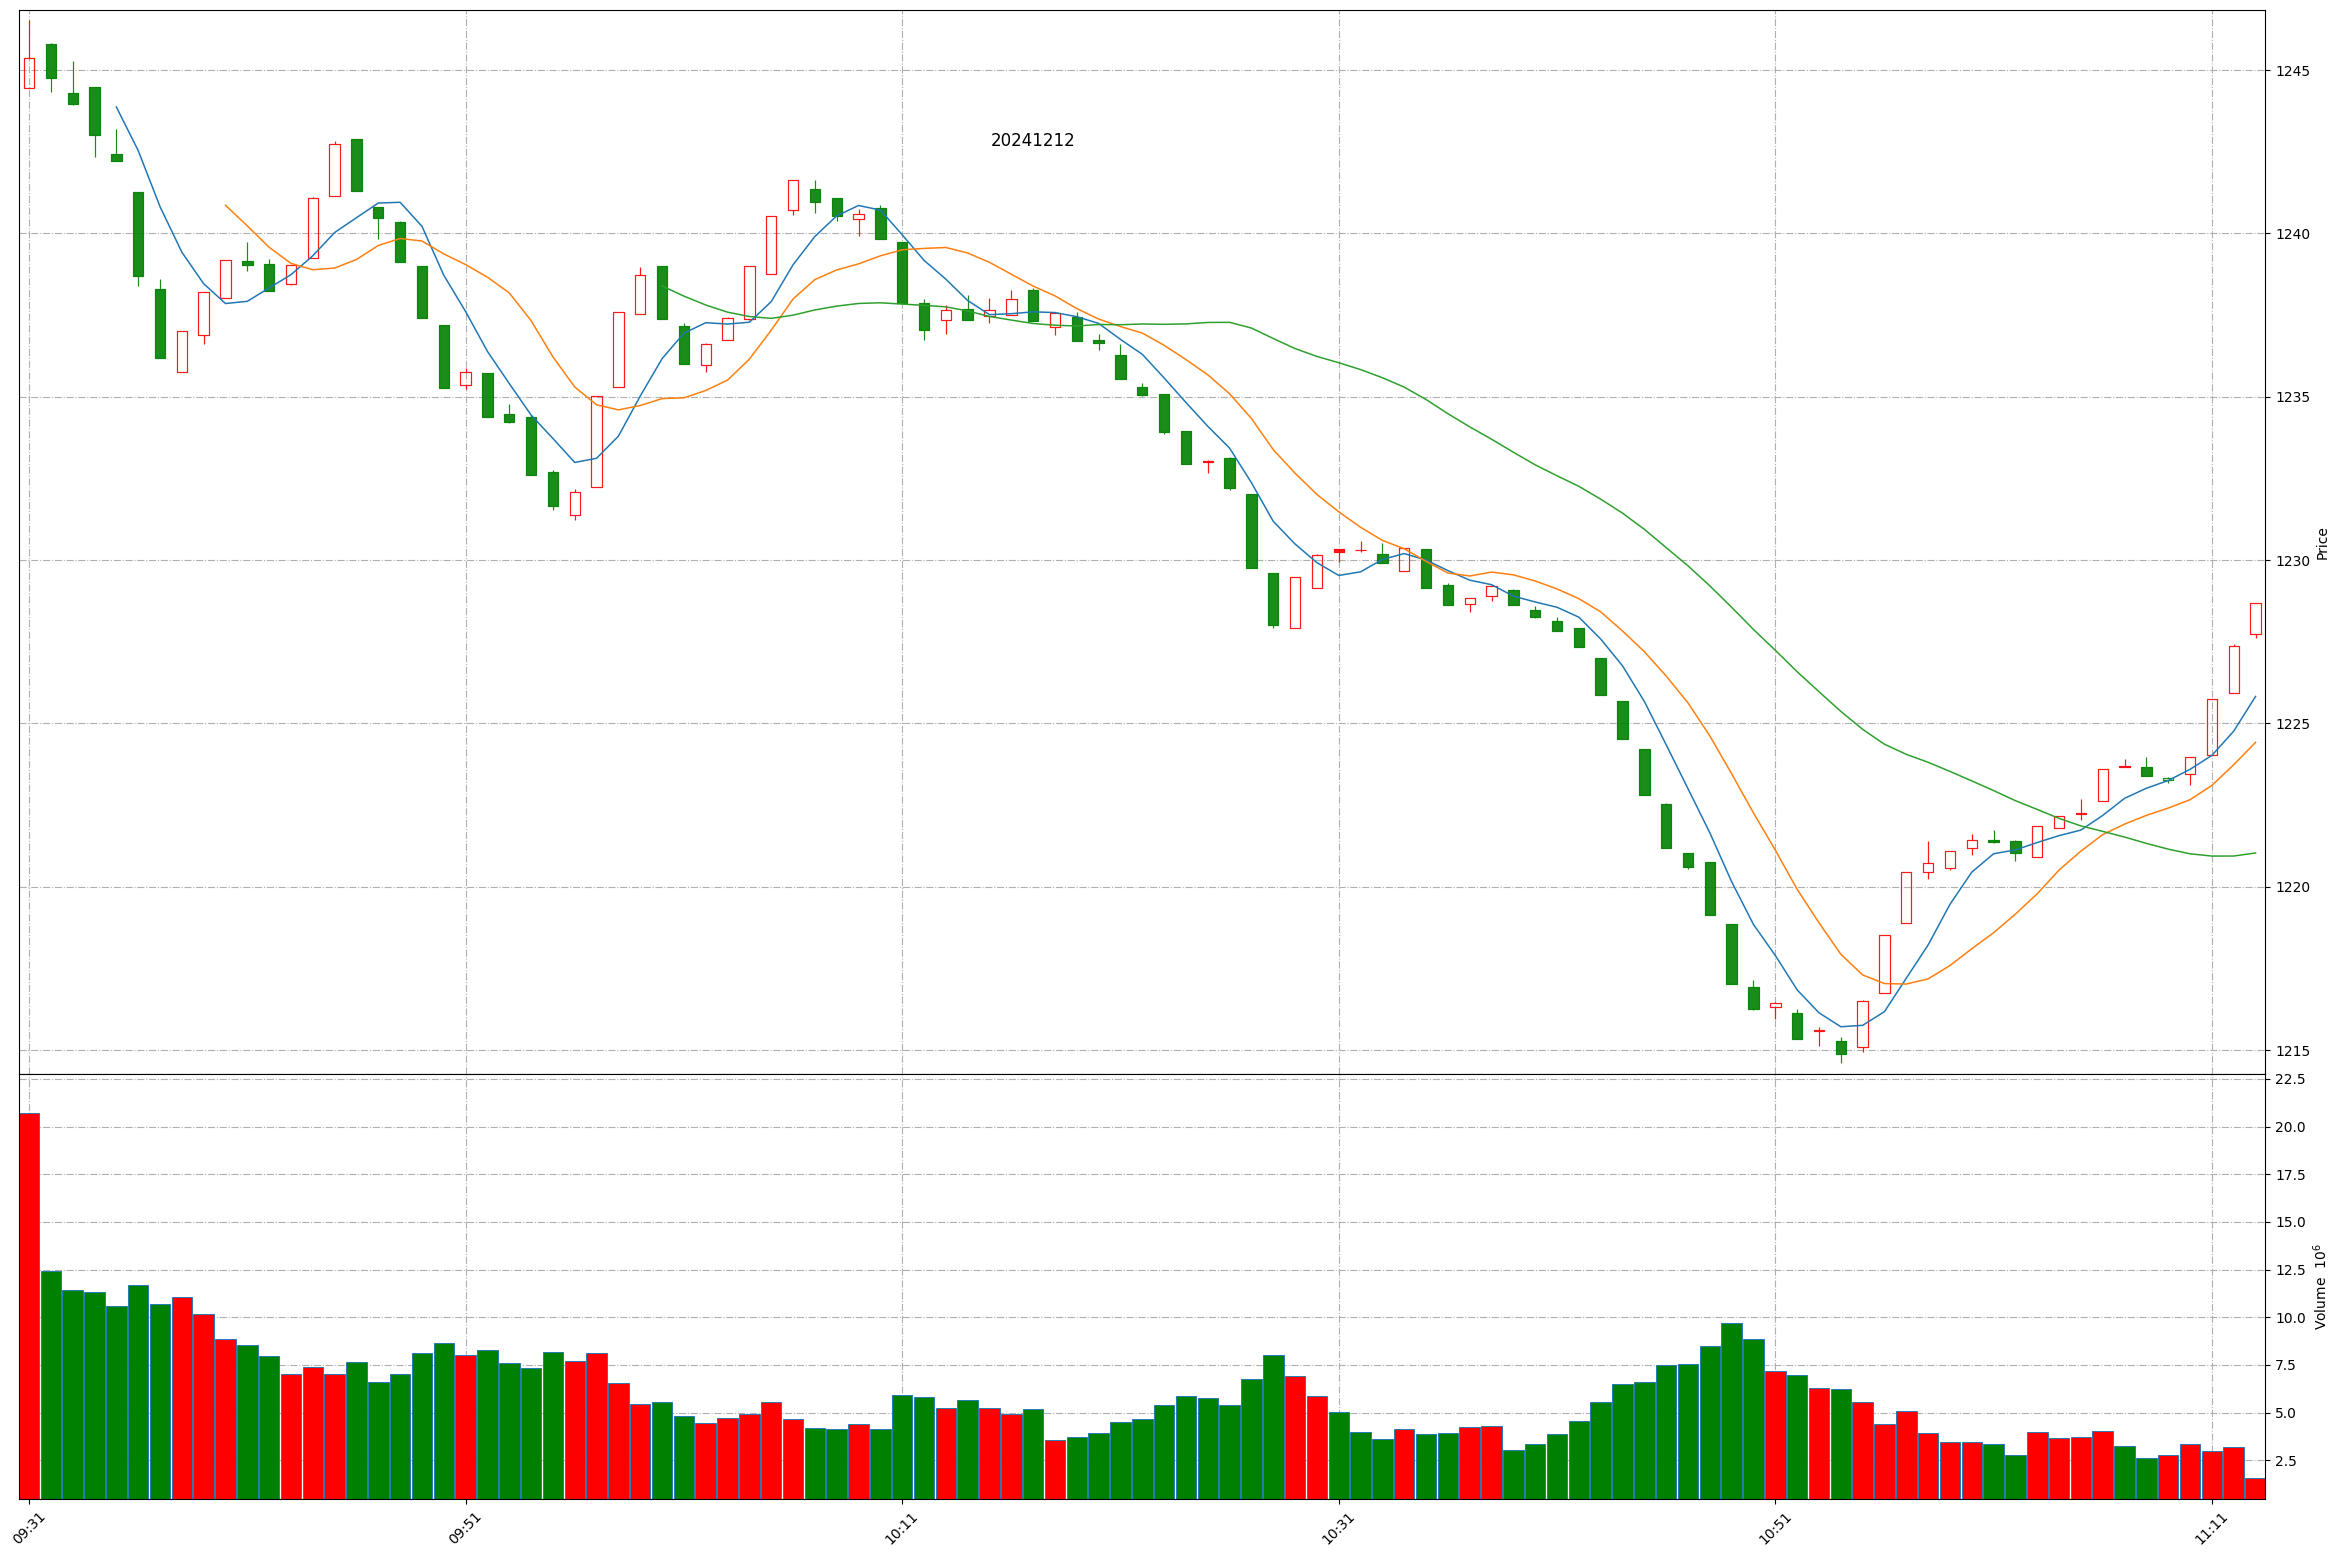
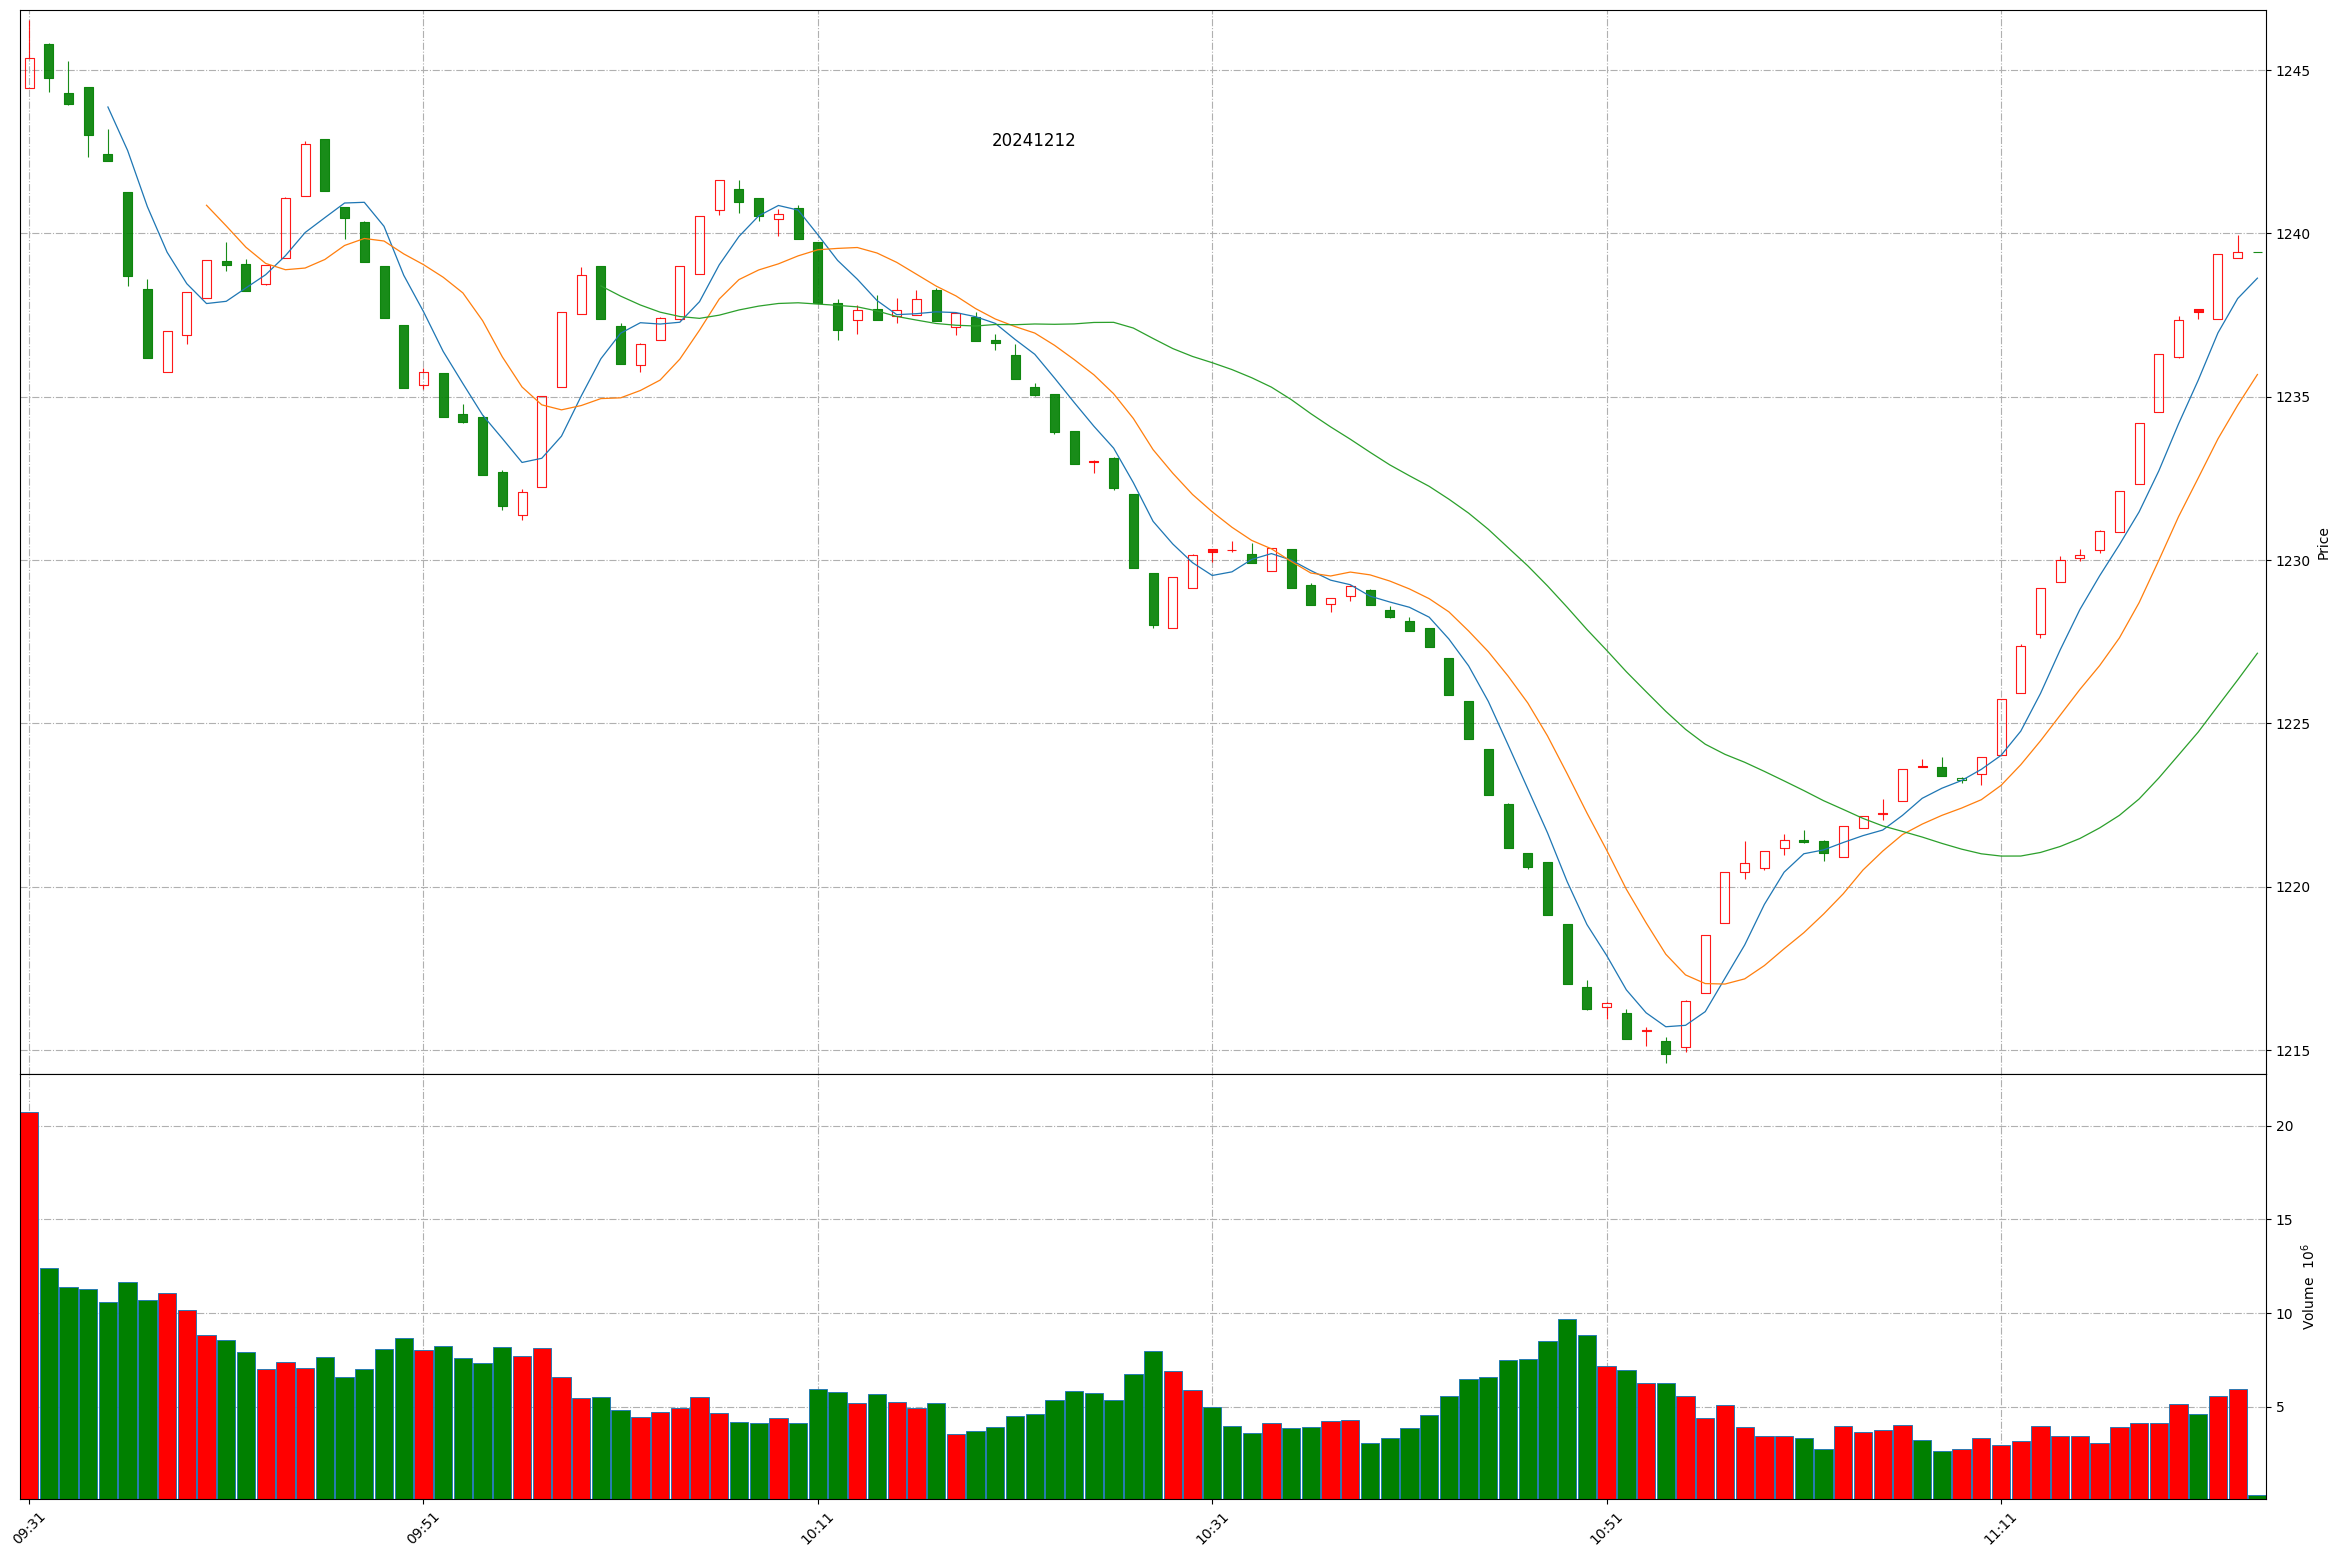
Github action update at 2024-12-12 11:23:22.

diff --git a/README.md b/README.md
@@ -1,11 +1,11 @@
 
 # Daily-A-share-market-quotes 每日 A 股指数（5min 更新）- 20241212
 
-### 上证指数 20241212 11:12
+### 上证指数 20241212 11:23
 ![](./fig/2024/12/20241212-sh000001.png)
 
-### 深证成指 20241212 11:12
+### 深证成指 20241212 11:23
 ![](./fig/2024/12/20241212-sz399001.png)
 
-### 北证50 20241212 11:12
+### 北证50 20241212 11:23
 ![](./fig/2024/12/20241212-bj899050.png)
